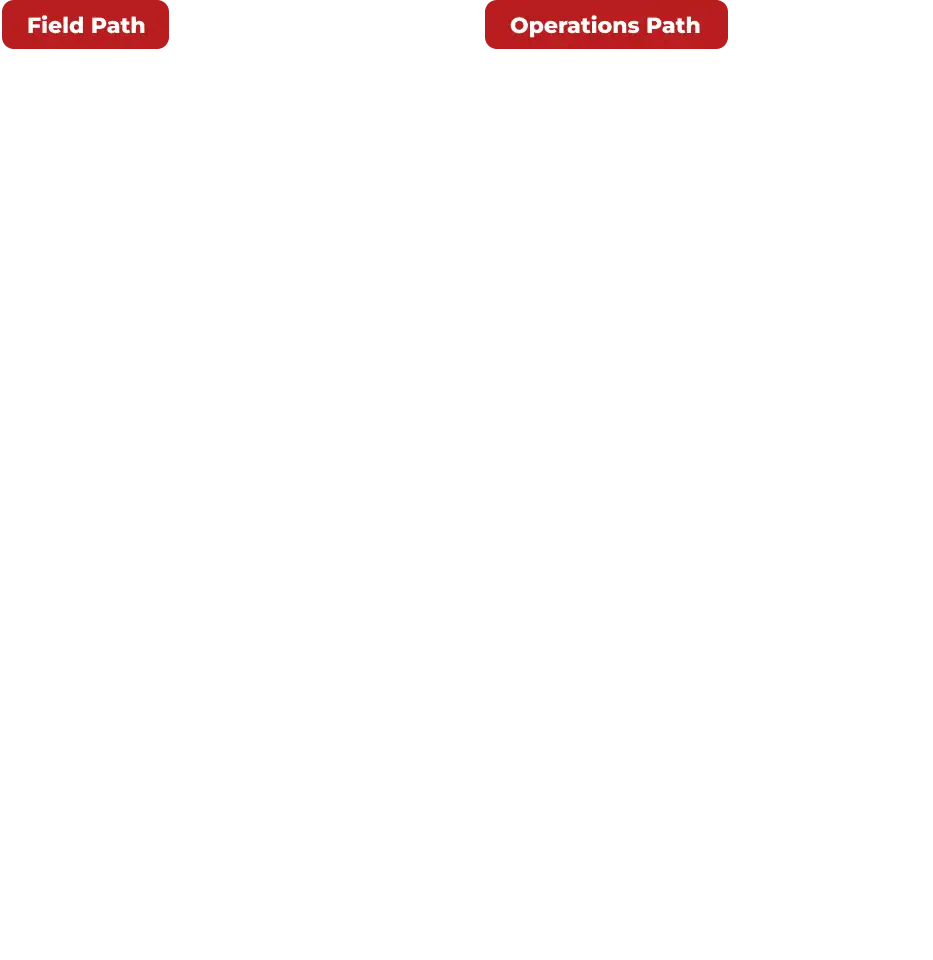
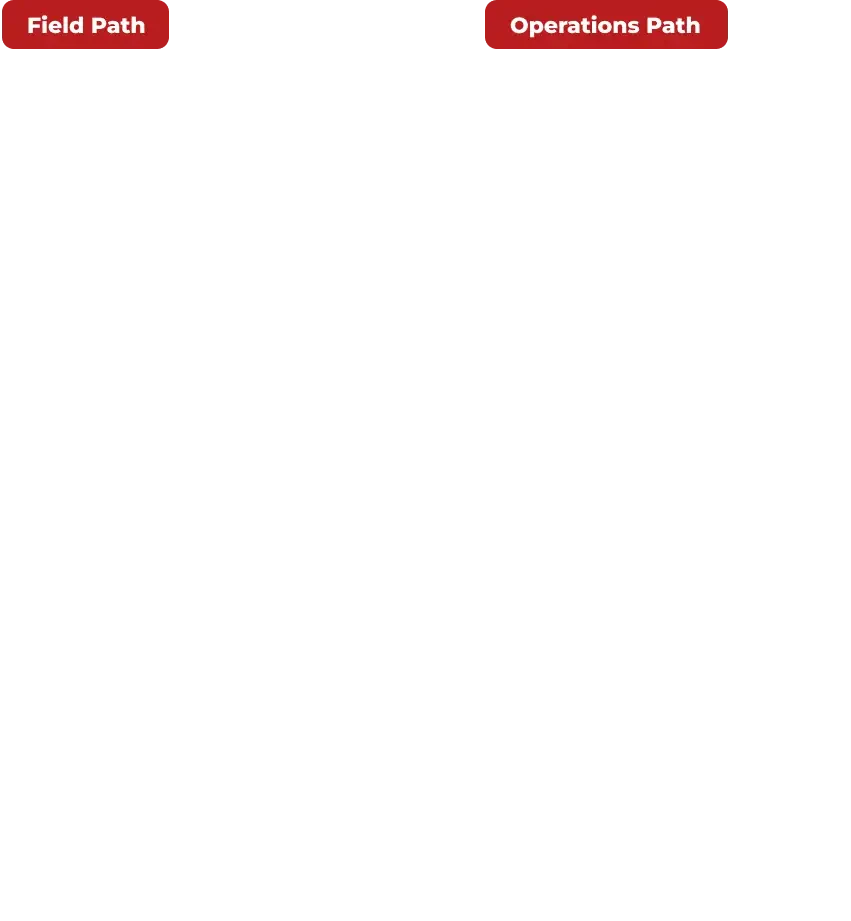
Resized mobile timeline

Changed region(s): [[0.5194, 0.0, 0.8555, 0.0608], [0.0306, 0.0, 0.2139, 0.0608]]

diff --git a/src/assets/less/careers.less b/src/assets/less/careers.less
@@ -49,8 +49,6 @@
                 height: 100%;
                 width: 100%;
                 object-fit: cover;
-                border-top-left-radius: (16/16rem);
-                border-bottom-left-radius: (16/16rem);
             }
         }
     }
@@ -75,6 +73,11 @@
             top: 0;
             bottom: 0;
             left: 50%;
+
+        img {
+            border-top-left-radius: (16/16rem);
+            border-bottom-left-radius: (16/16rem);
+        }
         }
 
         .cs-content {
@@ -251,7 +254,7 @@
 
         .cs-background {
             width: 100%;
-            height: 100%;
+            height: 80%;
             display: block;
             position: absolute;
             top: 0;
@@ -262,7 +265,7 @@
                 position: absolute;
                 top: 0;
                 left: 0;
-                height: 75%;
+                height: 100%;
                 width: auto;
                 padding: 1rem;
                 /* Makes img tag act as a background image */
@@ -312,8 +315,8 @@
 /* Mobile */
 @media only screen and (min-width: 0em) {
     #BambooHR {
-        padding: 2rem;
-
+        padding: 0rem 2rem;
+        margin-top: -5rem;
       
         a {
           text-decoration: none;
@@ -350,7 +353,8 @@
 /* Tablet */
 @media only screen and (min-width: 48em) {
     #BambooHR {
-        padding: 5rem;
+        padding: 2rem 5rem;
+        margin-top: 0rem;
       
         a {
           text-decoration: none;

diff --git a/src/assets/css/careers.css b/src/assets/css/careers.css
@@ -45,8 +45,6 @@
     height: 100%;
     width: 100%;
     object-fit: cover;
-    border-top-left-radius: 1rem;
-    border-bottom-left-radius: 1rem;
   }
 }
 /* Tablet - 768px */
@@ -67,6 +65,10 @@
     top: 0;
     bottom: 0;
     left: 50%;
+  }
+  #sbsr-599 .cs-background img {
+    border-top-left-radius: 1rem;
+    border-bottom-left-radius: 1rem;
   }
   #sbsr-599 .cs-content {
     width: 45%;
@@ -221,7 +223,7 @@
   }
   #map-720 .cs-background {
     width: 100%;
-    height: 100%;
+    height: 80%;
     display: block;
     position: absolute;
     top: 0;
@@ -232,7 +234,7 @@
     position: absolute;
     top: 0;
     left: 0;
-    height: 75%;
+    height: 100%;
     width: auto;
     padding: 1rem;
     /* Makes img tag act as a background image */
@@ -273,7 +275,8 @@
 /* Mobile */
 @media only screen and (min-width: 0em) {
   #BambooHR {
-    padding: 2rem;
+    padding: 0rem 2rem;
+    margin-top: -5rem;
   }
   #BambooHR a {
     text-decoration: none;
@@ -307,7 +310,8 @@
 /* Tablet */
 @media only screen and (min-width: 48em) {
   #BambooHR {
-    padding: 5rem;
+    padding: 2rem 5rem;
+    margin-top: 0rem;
   }
   #BambooHR a {
     text-decoration: none;

diff --git a/src/_includes/components/cta.html b/src/_includes/components/cta.html
@@ -12,9 +12,9 @@
         <a href="https://www.youtube.com/watch?v=Xnk-IpT3nQA" class="cs-big-link">
             <!--Background Image-->
             <picture class="cs-picture">
-                <source media="(min-width: 1024px)" srcset="/assets/images/elite-thumbnail.png">
-                <source media="(min-width: 601px)" srcset="/assets/images/elite-thumbnail.png">
-                <source media="(max-width: 600px)" srcset="/assets/images/elite-thumbnail.png">
+                <source media="(min-width: 1024px)" srcset="/assets/images/elite-thumbnail.webp">
+                <source media="(min-width: 601px)" srcset="/assets/images/elite-thumbnail.webp">
+                <source media="(max-width: 600px)" srcset="/assets/images/elite-thumbnail-m.webp">
                 <img aria-hidden="true" loading="lazy" decoding="async" src="https://csimg.nyc3.cdn.digitaloceanspaces.com/Images/People/kids6.jpg" alt="kids" width="1290" height="710">
             </picture>
             <!--Play Icon-->

diff --git a/src/_includes/components/header.html b/src/_includes/components/header.html
@@ -51,20 +51,20 @@
                         </li>
                     </ul>
                 </li>
-                <li class="cs-li">
+            <!--    <li class="cs-li">
                     <a href="/projects" class="cs-li-link">
                         Projects
                     </a>
-          
+          -->
                 <li class="cs-li">
                     <a href="/careers" class="cs-li-link">
                         Careers
                     </a>
                 </li>
-                <li class="cs-li">
+            <!--    <li class="cs-li">
                     <a href="/blog" class="cs-li-link">
                         Blog
-                    </a>
+                    </a>-->
                 </li>
                 <li class="cs-li">
                     <a href="/uganda" class="cs-li-link">

diff --git a/src/_includes/components/footer.html b/src/_includes/components/footer.html
@@ -21,11 +21,11 @@
                 <li class="cs-li">
                     <a href="/careers" class="cs-link">Careers</a>
                 </li>
-                <li class="cs-li">
+           <!--     <li class="cs-li">
                     <a href="/blog" class="cs-link">Blog</a>
-                </li>
+                </li>-->
                 <li class="cs-li">
-                    <a href="/blog" class="cs-link">Giving Back</a>
+                    <a href="/uganda" class="cs-link">Giving Back</a>
                 </li>
                 <li class="cs-li">
                     <a href="/contact" class="cs-link">Contact</a>

diff --git a/src/index.html b/src/index.html
@@ -1,5 +1,5 @@
 ---
-title: 'Pixel Perfect Websites'
+title: 'Home'
 description: 'Meta description for the page'
 preloadImg: '/assets/images/EliteConstruction.mp4'
 permalink: '/'
@@ -159,7 +159,7 @@ eleventyNavigation:
             <div class="cs-content-flex">
                 <h2 class="cs-title">Our Projects</h2>
             </div>
-            <a href="/projects" class="cs-button-solid">View All</a>
+    <!--        <a href="/projects" class="cs-button-solid">View All</a>-->
         </div>
         <ul class="cs-card-group">
             <li class="cs-item">

diff --git a/src/content/pages/careers.html b/src/content/pages/careers.html
@@ -116,7 +116,7 @@ eleventyNavigation:
 <section id="map-720">
         <picture class="cs-background">
             <!-- Mobile Image -->
-            <source media="(max-width: 600px)" srcset="/assets/images/timeline-m.webp">
+            <source media="(max-width: 600px)" srcset="/assets/images/timeline-m.png">
             <!-- Tablet and above Image -->
             <source media="(min-width: 601px)" srcset="/assets/images/timeline.png">
             <img loading="lazy" decoding="async" src="/assets/images/timeline.png" alt="map" width="1280" height="600">

diff --git a/src/assets/less/about.less b/src/assets/less/about.less
@@ -49,8 +49,6 @@
                 height: 100%;
                 width: 100%;
                 object-fit: cover;
-                border-top-left-radius: (16/16rem);
-                border-bottom-left-radius: (16/16rem);
             }
         }
     }
@@ -75,6 +73,11 @@
             top: 0;
             bottom: 0;
             left: 50%;
+            
+            img {
+                border-top-left-radius: (16/16rem);
+                border-bottom-left-radius: (16/16rem);
+            }
         }
 
         .cs-content {

diff --git a/src/assets/css/about.css b/src/assets/css/about.css
@@ -45,8 +45,6 @@
     height: 100%;
     width: 100%;
     object-fit: cover;
-    border-top-left-radius: 1rem;
-    border-bottom-left-radius: 1rem;
   }
 }
 /* Tablet - 768px */
@@ -68,6 +66,10 @@
     top: 0;
     bottom: 0;
     left: 50%;
+  }
+  #sbsr-599 .cs-background img {
+    border-top-left-radius: 1rem;
+    border-bottom-left-radius: 1rem;
   }
   #sbsr-599 .cs-content {
     width: 45%;

diff --git a/src/content/pages/success.html b/src/content/pages/success.html
@@ -1,5 +1,5 @@
 ---
-title: 'Success'
+title: 'Form Submission'
 description: 'Meta description for the page'
 permalink: 'success/'
 ---
